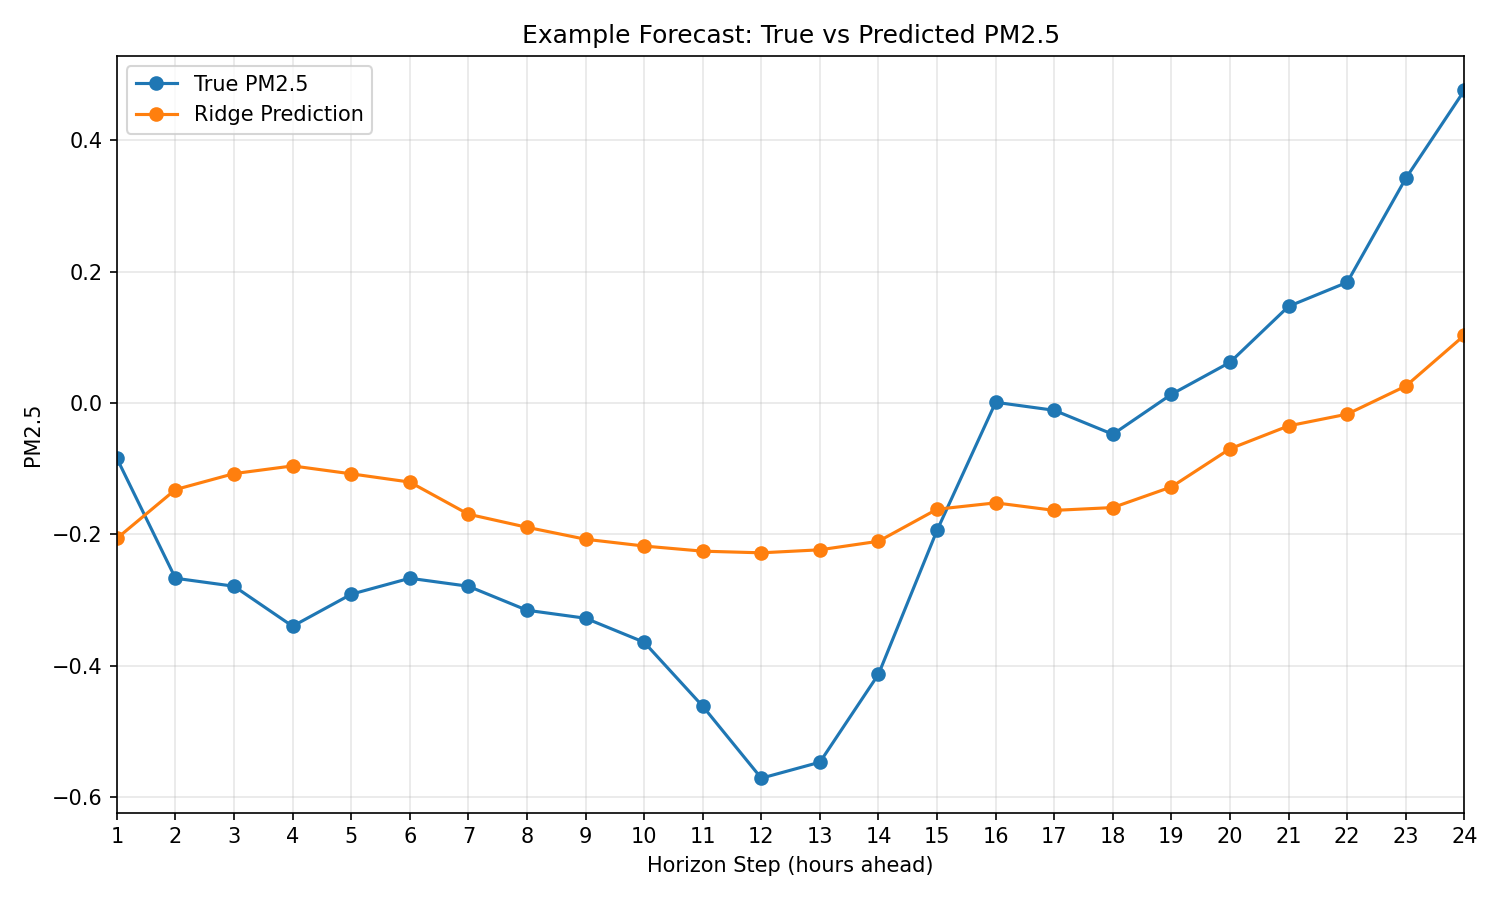
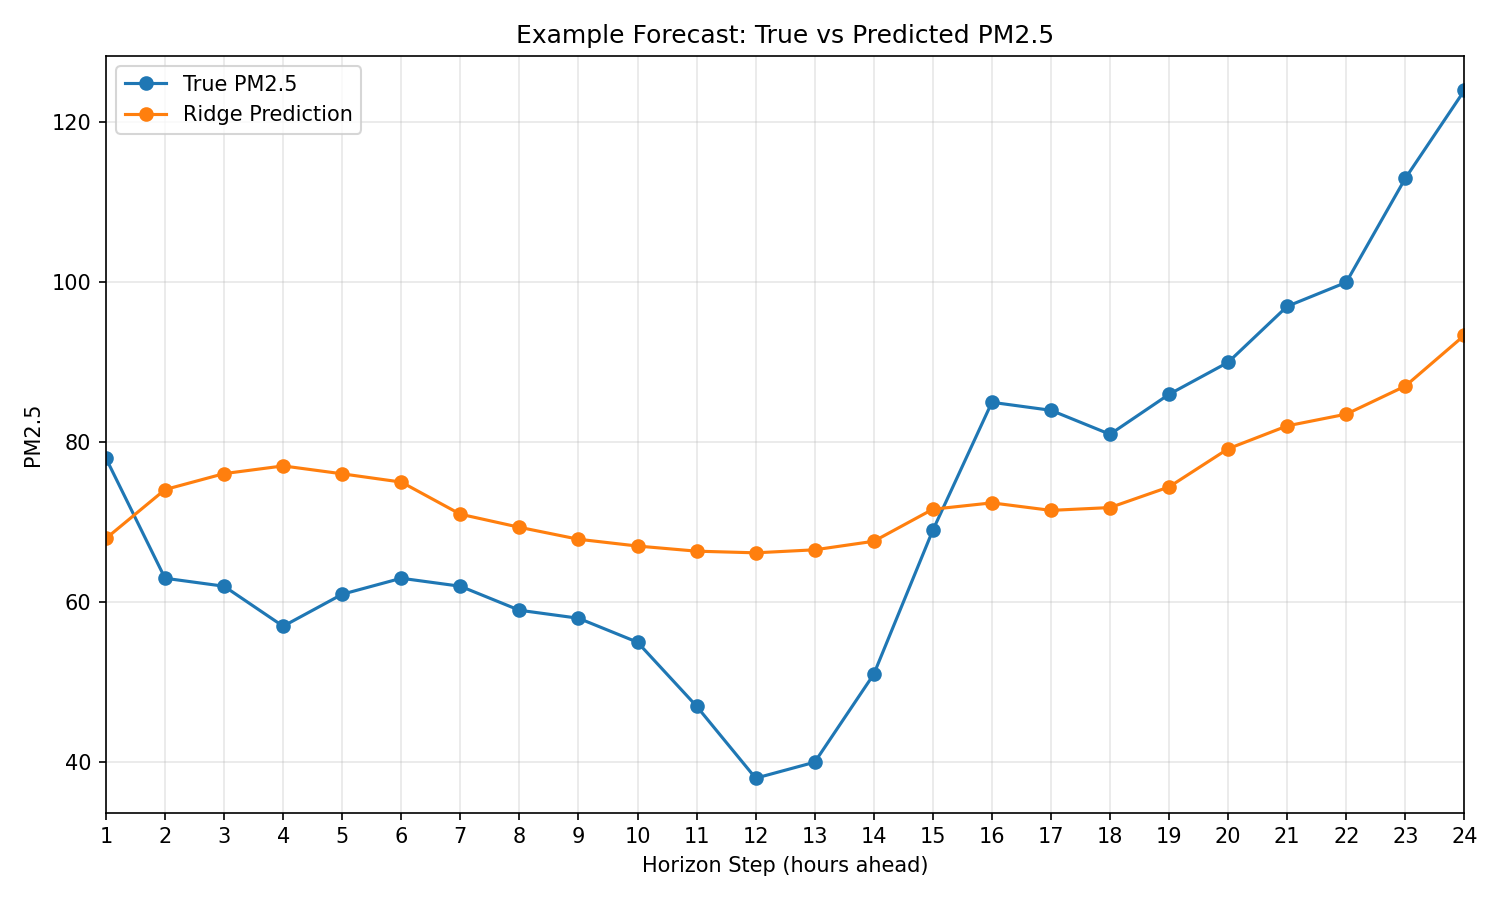
refactor: separate target scaling and inverse transform in ridge pipeline

diff --git a/src/air_quality_rnn/datasets.py b/src/air_quality_rnn/datasets.py
@@ -8,14 +8,14 @@ from air_quality_rnn.preprocessing import preprocess_splits, chronological_split
 
 
 def create_sliding_windows(
-    df: pd.DataFrame,
+    X_df: pd.DataFrame,
+    y_series: pd.Series,
     feature_columns: List[str],
-    target_column: str,
     window_size: int,
     horizon: int
 ) -> Tuple[np.ndarray, np.ndarray]:
     """
-    Convert a time series DataFrame into sliding windows.
+    Convert time series data into sliding windows.
 
     Returns
     -------
@@ -28,20 +28,28 @@ def create_sliding_windows(
     # Validate inputs
     if window_size <= 0 or horizon <= 0:
         raise ValueError("window_size and horizon must be positive integers")
+    
     if feature_columns is None or len(feature_columns) == 0:
         raise ValueError("feature_columns must be a non-empty list of column names")
-    if target_column not in df.columns:
-        raise ValueError(f"target_column '{target_column}' not found in DataFrame")
+    
+    if X_df.empty or y_series.empty:
+        raise ValueError("X_df and y_series must not be empty")
+    
     for col in feature_columns:
-        if col not in df.columns:
-            raise ValueError(f"feature_column '{col}' not found in DataFrame")
-    if window_size + horizon > len(df):
-        raise ValueError("window_size + horizon must be less than or equal to the length of the DataFrame")
+        if col not in X_df.columns:
+            raise ValueError(f"feature_column '{col}' not found in X_df")
+    
+    if len(X_df) != len(y_series):
+        raise ValueError("X_df and y_series must have the same length")
+    
+    if window_size + horizon > len(X_df):
+        raise ValueError("window_size + horizon must be less than or equal to the length of X_df")
     
     X, y = [], []
-    for i in range(len(df) - window_size - horizon + 1):
-        X.append(df[feature_columns].iloc[i:i + window_size].values)
-        y.append(df[target_column].iloc[i + window_size:i + window_size + horizon].values)
+
+    for i in range(len(X_df) - window_size - horizon + 1):
+        X.append(X_df[feature_columns].iloc[i:i + window_size].values)
+        y.append(y_series.iloc[i + window_size:i + window_size + horizon].values)
 
     return np.array(X), np.array(y)
 
@@ -54,6 +62,7 @@ def create_datasets(
     target_column: str,
     window_size: int,
     horizon: int,
+    scale_target: bool = True,
 ) -> tuple[
     np.ndarray,
     np.ndarray,
@@ -70,7 +79,7 @@ def create_datasets(
     train_df, val_df, test_df = chronological_split(df, train_size, val_size)
 
     # Preprocess the splits (impute missing values and scale features)
-    train_df, val_df, test_df, feature_scaler, target_scaler = preprocess_splits(
+    train_imputed, val_imputed, test_imputed, train_scaled, val_scaled, test_scaled, feature_scaler, target_scaler = preprocess_splits(
         train_df,
         val_df,
         test_df,
@@ -80,25 +89,31 @@ def create_datasets(
 
     # Create sliding windows for each split
     X_train, y_train = create_sliding_windows(
-        train_df,
+        X_df=train_scaled,
+        y_series=train_imputed[target_column],
         feature_columns=feature_columns,
-        target_column=target_column,
         window_size=window_size,
         horizon=horizon,
     )
     X_val, y_val = create_sliding_windows(
-        val_df,
+        X_df=val_scaled,
+        y_series=val_imputed[target_column],
         feature_columns=feature_columns,
-        target_column=target_column,
         window_size=window_size,
         horizon=horizon,
     )
     X_test, y_test = create_sliding_windows(
-        test_df,
+        X_df=test_scaled,
+        y_series=test_imputed[target_column],
         feature_columns=feature_columns,
-        target_column=target_column,
         window_size=window_size,
         horizon=horizon,
     )
+
+    # Scale target values
+    if scale_target:
+        y_train = scale_targets(y_train, target_scaler)
+        y_val = scale_targets(y_val, target_scaler)
+        y_test = scale_targets(y_test, target_scaler)
 
     return X_train, y_train, X_val, y_val, X_test, y_test, feature_scaler, target_scaler

diff --git a/src/air_quality_rnn/run_linear_model.py b/src/air_quality_rnn/run_linear_model.py
@@ -9,7 +9,7 @@ from sklearn.multioutput import MultiOutputRegressor
 from air_quality_rnn.datasets import create_datasets
 from air_quality_rnn.evaluate import evaluate_forecast
 from air_quality_rnn.config import load_config
-from air_quality_rnn.utils import flatten_windows, convert_numpy, round_metrics
+from air_quality_rnn.utils import flatten_windows, convert_numpy, round_metrics, inverse_scale_targets
 from air_quality_rnn.visualization import plot_forecast_example
 
 
@@ -41,7 +41,7 @@ def main():
     df.drop(columns=['year', 'month', 'day', 'hour'], inplace=True)
 
     # Create datasets
-    X_train, y_train, X_val, y_val, X_test, y_test, _feature_scaler, _target_scaler = create_datasets(
+    X_train, y_train, X_val, y_val, X_test, y_test, _feature_scaler, target_scaler = create_datasets(
         df=df,
         train_size=train_size,
         val_size=val_size,
@@ -56,6 +56,10 @@ def main():
     X_val_flat = flatten_windows(X_val)
     X_test_flat = flatten_windows(X_test)
 
+    # 
+    y_val_true = inverse_scale_targets(y_val, target_scaler)
+    y_test_true = inverse_scale_targets(y_test, target_scaler)
+
     # Train Ridge regression model with different alpha values
     best_alpha = None
     best_metrics = None
@@ -66,7 +70,9 @@ def main():
         model.fit(X_train_flat, y_train)
 
         y_val_pred = model.predict(X_val_flat)
-        metrics = evaluate_forecast(y_val, y_val_pred)  # type: ignore
+        y_val_pred_inv = inverse_scale_targets(y_val_pred, target_scaler)  # type: ignore
+
+        metrics = evaluate_forecast(y_val_true, y_val_pred_inv)  
 
         if metrics["rmse"] < best_rmse:
             best_rmse = metrics["rmse"]
@@ -87,11 +93,12 @@ def main():
     final_model = MultiOutputRegressor(Ridge(alpha=best_alpha))  
     final_model.fit(X_train_val_flat, y_train_val)  
 
-    # Predict on test set 
-    y_test_pred = final_model.predict(X_test_flat) 
+    # Predict on test set and inverse scale
+    y_test_pred = final_model.predict(X_test_flat)
+    y_test_pred_inv = inverse_scale_targets(y_test_pred, target_scaler)  # type: ignore
     
     # Evaluate model and print results
-    test_metrics = evaluate_forecast(y_test, y_test_pred)  # type: ignore
+    test_metrics = evaluate_forecast(y_test_true, y_test_pred_inv)
     print("Ridge regression test metrics:")
     print(round_metrics(test_metrics))
 
@@ -102,19 +109,18 @@ def main():
         "test_metrics": convert_numpy(round_metrics(test_metrics)),
     }
 
-    Path("reports").mkdir(exist_ok=True)
+    Path("reports").mkdir(parents=True, exist_ok=True)
+    Path("reports/figures").mkdir(parents=True, exist_ok=True)
 
     with open("reports/linear_model.json", "w", encoding="utf-8") as f:
         json.dump(results, f, indent=4)
     
     # Generate and save example forecast plot
-    Path("reports/figures").mkdir(exist_ok=True)
-
     sample_idx = len(y_test) // 2
 
     plot_forecast_example(
-        y_true=y_test,
-        y_pred=y_test_pred,  # type: ignore
+        y_true=y_test_true,
+        y_pred=y_test_pred_inv,
         sample_idx=sample_idx,
         save_path="reports/figures/forecast_example.png",
     )

diff --git a/src/air_quality_rnn/preprocessing.py b/src/air_quality_rnn/preprocessing.py
@@ -37,6 +37,9 @@ def preprocess_splits(
     pd.DataFrame,
     pd.DataFrame,
     pd.DataFrame,
+    pd.DataFrame,
+    pd.DataFrame,
+    pd.DataFrame,
     StandardScaler,
     StandardScaler,
 ]:
@@ -59,25 +62,30 @@ def preprocess_splits(
             raise ValueError(f"feature_column '{col}' must be present in all DataFrames")
 
     # Fill missing values with forward fill, then backward fill as a fallback
-    train_df = train_df.ffill().bfill()
-    val_df = val_df.ffill().bfill()
-    test_df = test_df.ffill().bfill()
+    train_imputed = train_df.ffill().bfill()
+    val_imputed = val_df.ffill().bfill()
+    test_imputed = test_df.ffill().bfill()
 
     # Check for remaining missing values
-    if train_df.isnull().any().any() or val_df.isnull().any().any() or test_df.isnull().any().any():
+    if train_imputed.isnull().any().any() or val_imputed.isnull().any().any() or test_imputed.isnull().any().any():
         raise ValueError("DataFrames contain missing values after filling. Please check the data.")
     
-    # Scale features and target using StandardScaler
+    # Prepare datasets for scaling 
+    train_scaled = train_imputed.copy()
+    val_scaled = val_imputed.copy()
+    test_scaled = test_imputed.copy()
+
+    # Instantiate scalers
     feature_scaler = StandardScaler()
     target_scaler = StandardScaler()
 
     # Fit scalers on training data only
-    feature_scaler.fit(train_df[feature_columns])
-    target_scaler.fit(train_df[[target_column]])
+    feature_scaler.fit(train_scaled[feature_columns].to_numpy())
+    target_scaler.fit(train_imputed[[target_column]].to_numpy())
 
     # Transform features
-    train_df[feature_columns] = feature_scaler.transform(train_df[feature_columns])
-    val_df[feature_columns] = feature_scaler.transform(val_df[feature_columns])
-    test_df[feature_columns] = feature_scaler.transform(test_df[feature_columns])
+    train_scaled[feature_columns] = feature_scaler.transform(train_scaled[feature_columns])
+    val_scaled[feature_columns] = feature_scaler.transform(val_scaled[feature_columns])
+    test_scaled[feature_columns] = feature_scaler.transform(test_scaled[feature_columns])
 
-    return train_df, val_df, test_df, feature_scaler, target_scaler
+    return train_imputed, val_imputed, test_imputed, train_scaled, val_scaled, test_scaled, feature_scaler, target_scaler

diff --git a/src/air_quality_rnn/models.py b/src/air_quality_rnn/models.py
@@ -1,0 +1,27 @@
+from tensorflow.keras.models import Sequential
+from tensorflow.keras.layers import Input, LSTM, Dense
+from tensorflow.keras.optimizers import Adam
+
+def build_lstm_model(
+    window_size: int,
+    n_features: int,
+    horizon: int,
+    lstm_units: int,
+    learning_rate: float,
+):
+    """Build and compile an LSTM forecasting model."""
+
+    model = Sequential([
+        Input(shape=(window_size, n_features)),
+        LSTM(lstm_units),
+        Dense(horizon),
+    ])
+
+    optimizer = Adam(learning_rate=learning_rate)
+    model.compile(
+        optimizer=optimizer,
+        loss="mse",
+        metrics=["mae"])
+    
+
+    return model
